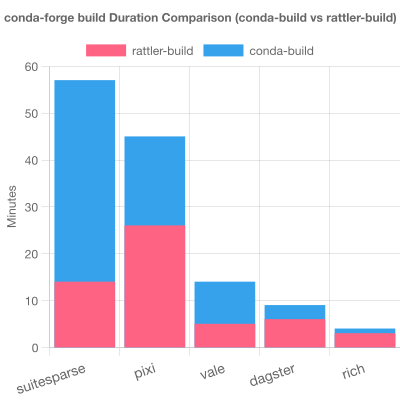
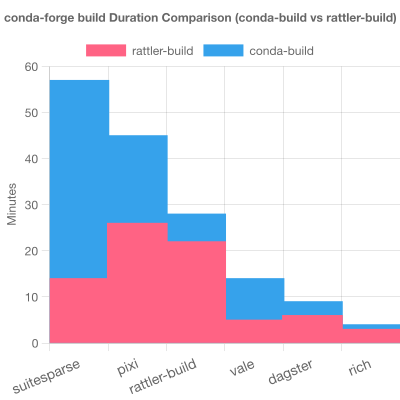
add cum sum and extend readme

diff --git a/src/nodejs_project/rattler-vs-conda-build.js b/src/nodejs_project/rattler-vs-conda-build.js
@@ -23,8 +23,12 @@ const COMMITS = {
   },
   suitesparse: {
     v0: '0498432e5b0d19de340332005802fb6ff666b9ab',
-    v1: 'a7699fa70429ac60fb0fb243fa8db18a284917fe', // v14.0.0 but with v1
+    v1: 'a7699fa70429ac60fb0fb243fa8db18a284917fe',
   },
+  "rattler-build": {
+    v0: '9c866f74b7e4264364ee0f54ec601ddb0d2e2e23',
+    v1: '2aecf8fb4326bbd83aaad51a60204ad4c5f00fd1',
+  }
 };
 
 const RE_DURATION = /^Successful in (.*)m$/;
@@ -136,11 +140,27 @@ async function renderChart(results) {
   fs.writeFileSync('ci-durations.png', image);
 }
 
+function printCumulative(results) {
+  const totalV0 = results.reduce((sum, r) => sum + parseFloat(r.v0), 0);
+  const totalV1 = results.reduce((sum, r) => sum + parseFloat(r.v1), 0);
+
+  const delta = totalV0 - totalV1;
+  const speedup = totalV0 / totalV1;
+
+  console.log('\nCumulative Summary:');
+  console.log(`  conda-build:     ${totalV0.toFixed(2)} min`);
+  console.log(`  rattler-build:   ${totalV1.toFixed(2)} min`);
+  console.log(`  Saved:           ${delta.toFixed(2)} min`);
+  console.log(`  Speedup:         ${speedup.toFixed(2)}x`);
+  console.log(`  Total Packages:  ${results.length}`);
+}
+
 (async () => {
   const token = await getGitHubToken();
   const results = await Promise.all(
     Object.entries(COMMITS).map((entry) => ciDelta(entry, token))
   );
   console.table(results);
+  printCumulative(results);
   await renderChart(results);
 })();

diff --git a/src/nodejs_project/README.md b/src/nodejs_project/README.md
@@ -7,3 +7,24 @@ The project can compare two commits of a feedstock build and figuring out the di
 
 ```
 pixi run start
+```
+Which results in the following table and summary:
+```
+│ (index) │ pkg             │ v0       │ v1       │ d           │ remaining │ speedup │
+│ 0       │ 'vale'          │ '14 min' │ '5 min'  │ '9.00 min'  │ '35.7%'   │ '2.80x' │
+│ 1       │ 'dagster'       │ '9 min'  │ '6 min'  │ '3.00 min'  │ '66.7%'   │ '1.50x' │
+│ 2       │ 'pixi'          │ '45 min' │ '26 min' │ '19.00 min' │ '57.8%'   │ '1.73x' │
+│ 3       │ 'rich'          │ '4 min'  │ '3 min'  │ '1.00 min'  │ '75.0%'   │ '1.33x' │
+│ 4       │ 'suitesparse'   │ '57 min' │ '14 min' │ '43.00 min' │ '24.6%'   │ '4.07x' │
+│ 5       │ 'rattler-build' │ '28 min' │ '22 min' │ '6.00 min'  │ '78.6%'   │ '1.27x' │
+
+
+Cumulative Summary:
+  conda-build:     157.00 min
+  rattler-build:   76.00 min
+  Saved:           81.00 min
+  Speedup:         2.07x
+  Total Packages:  6
+```
+It also outputs an images in `ci-durations.png`:
+![ci-durations](ci-durations.png)
